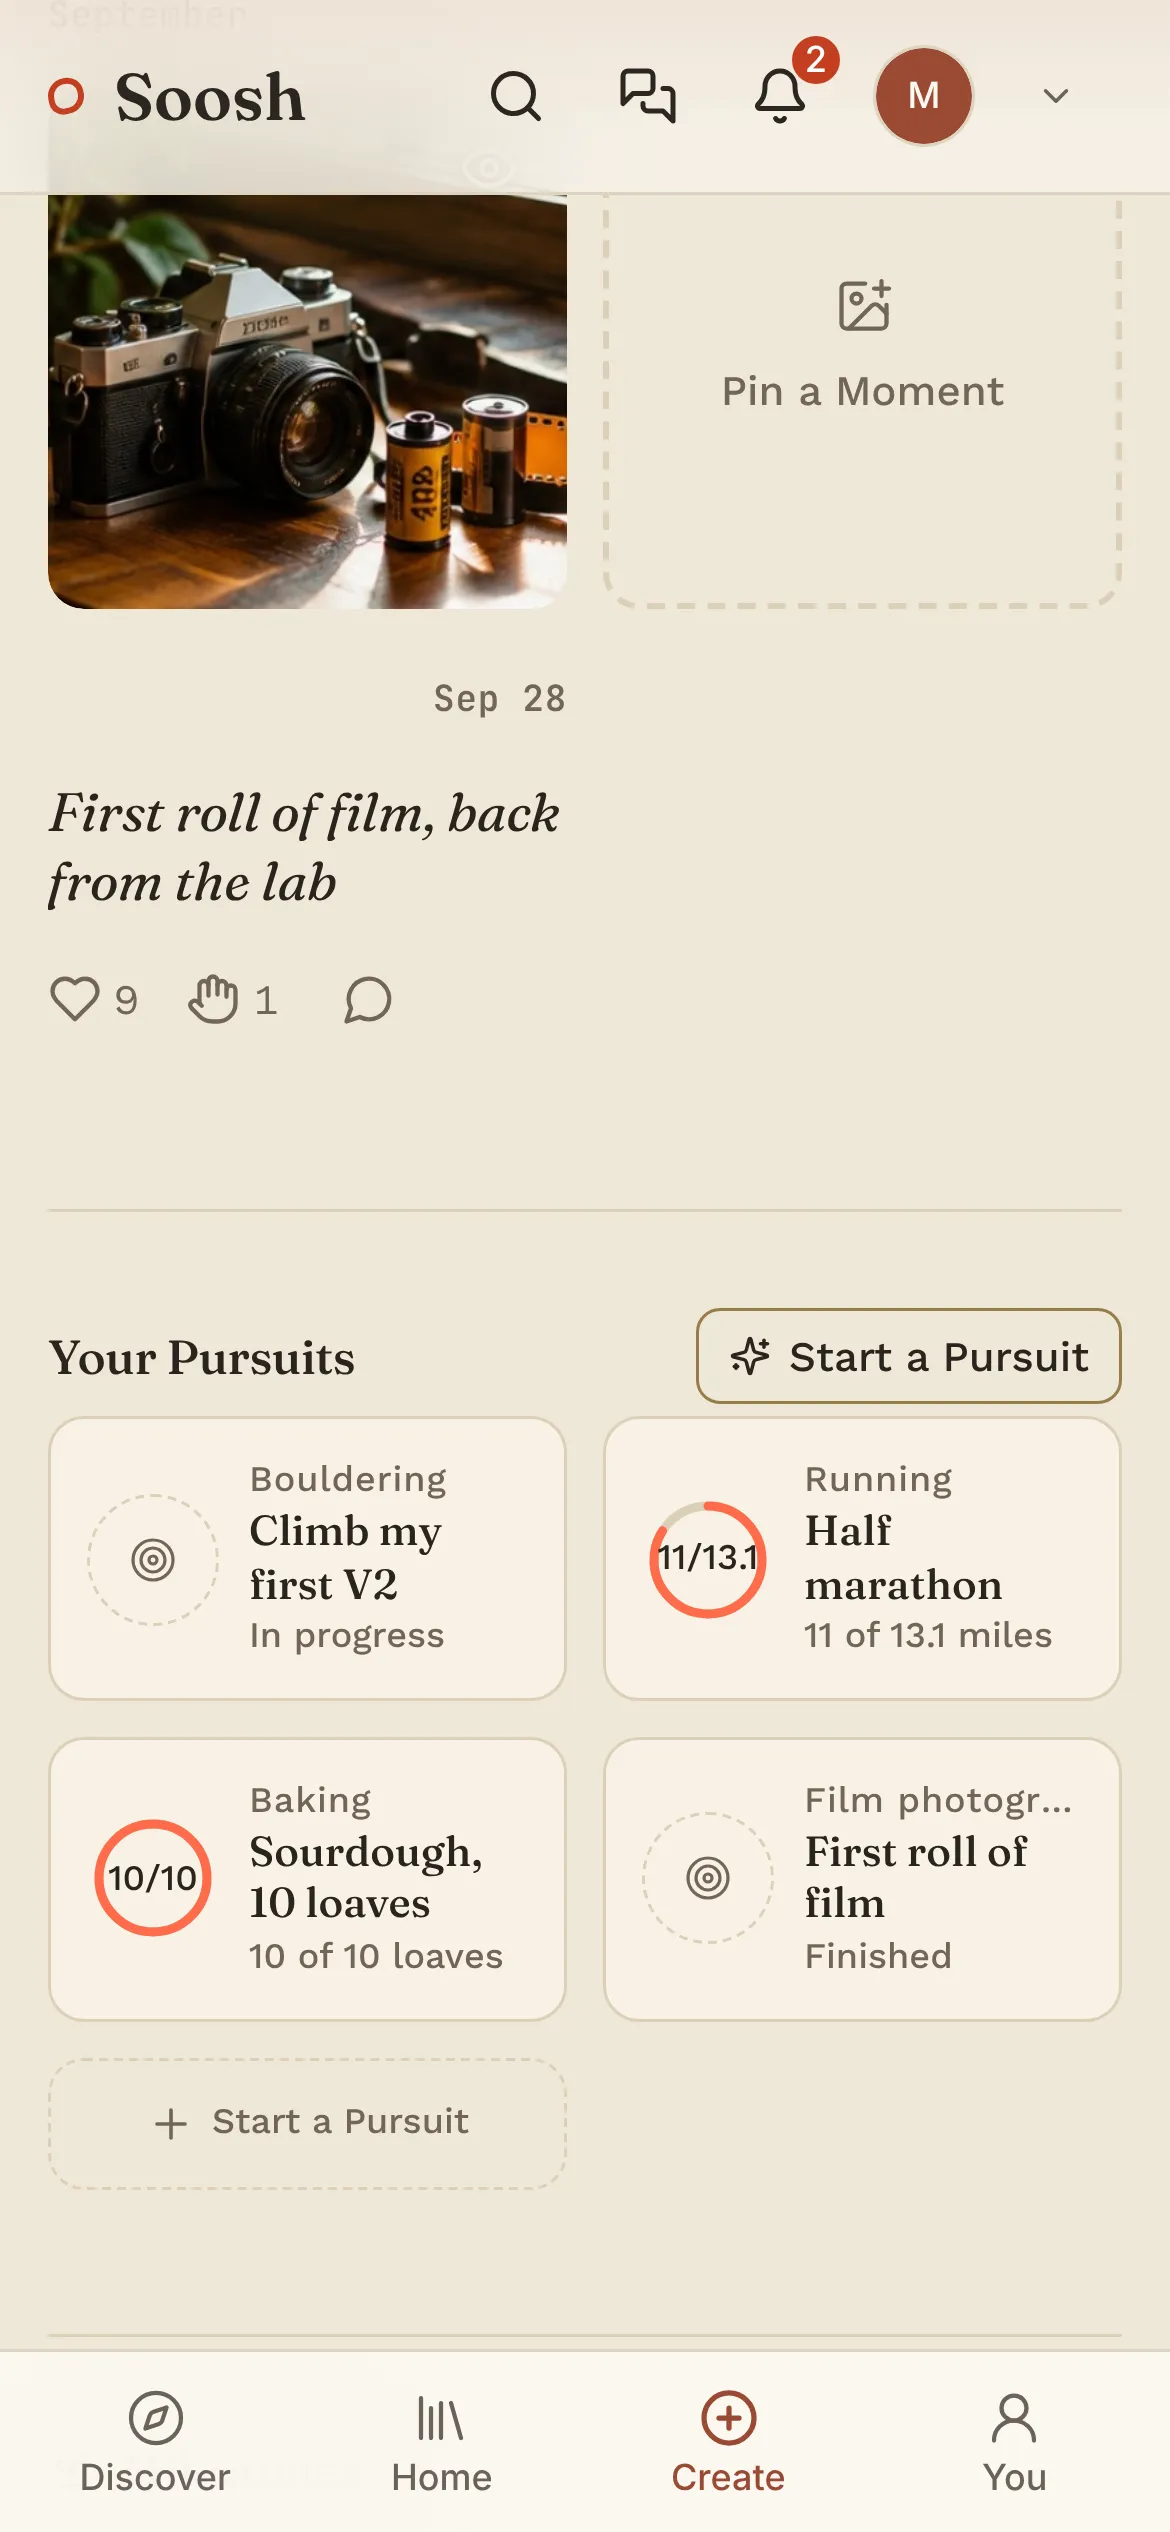
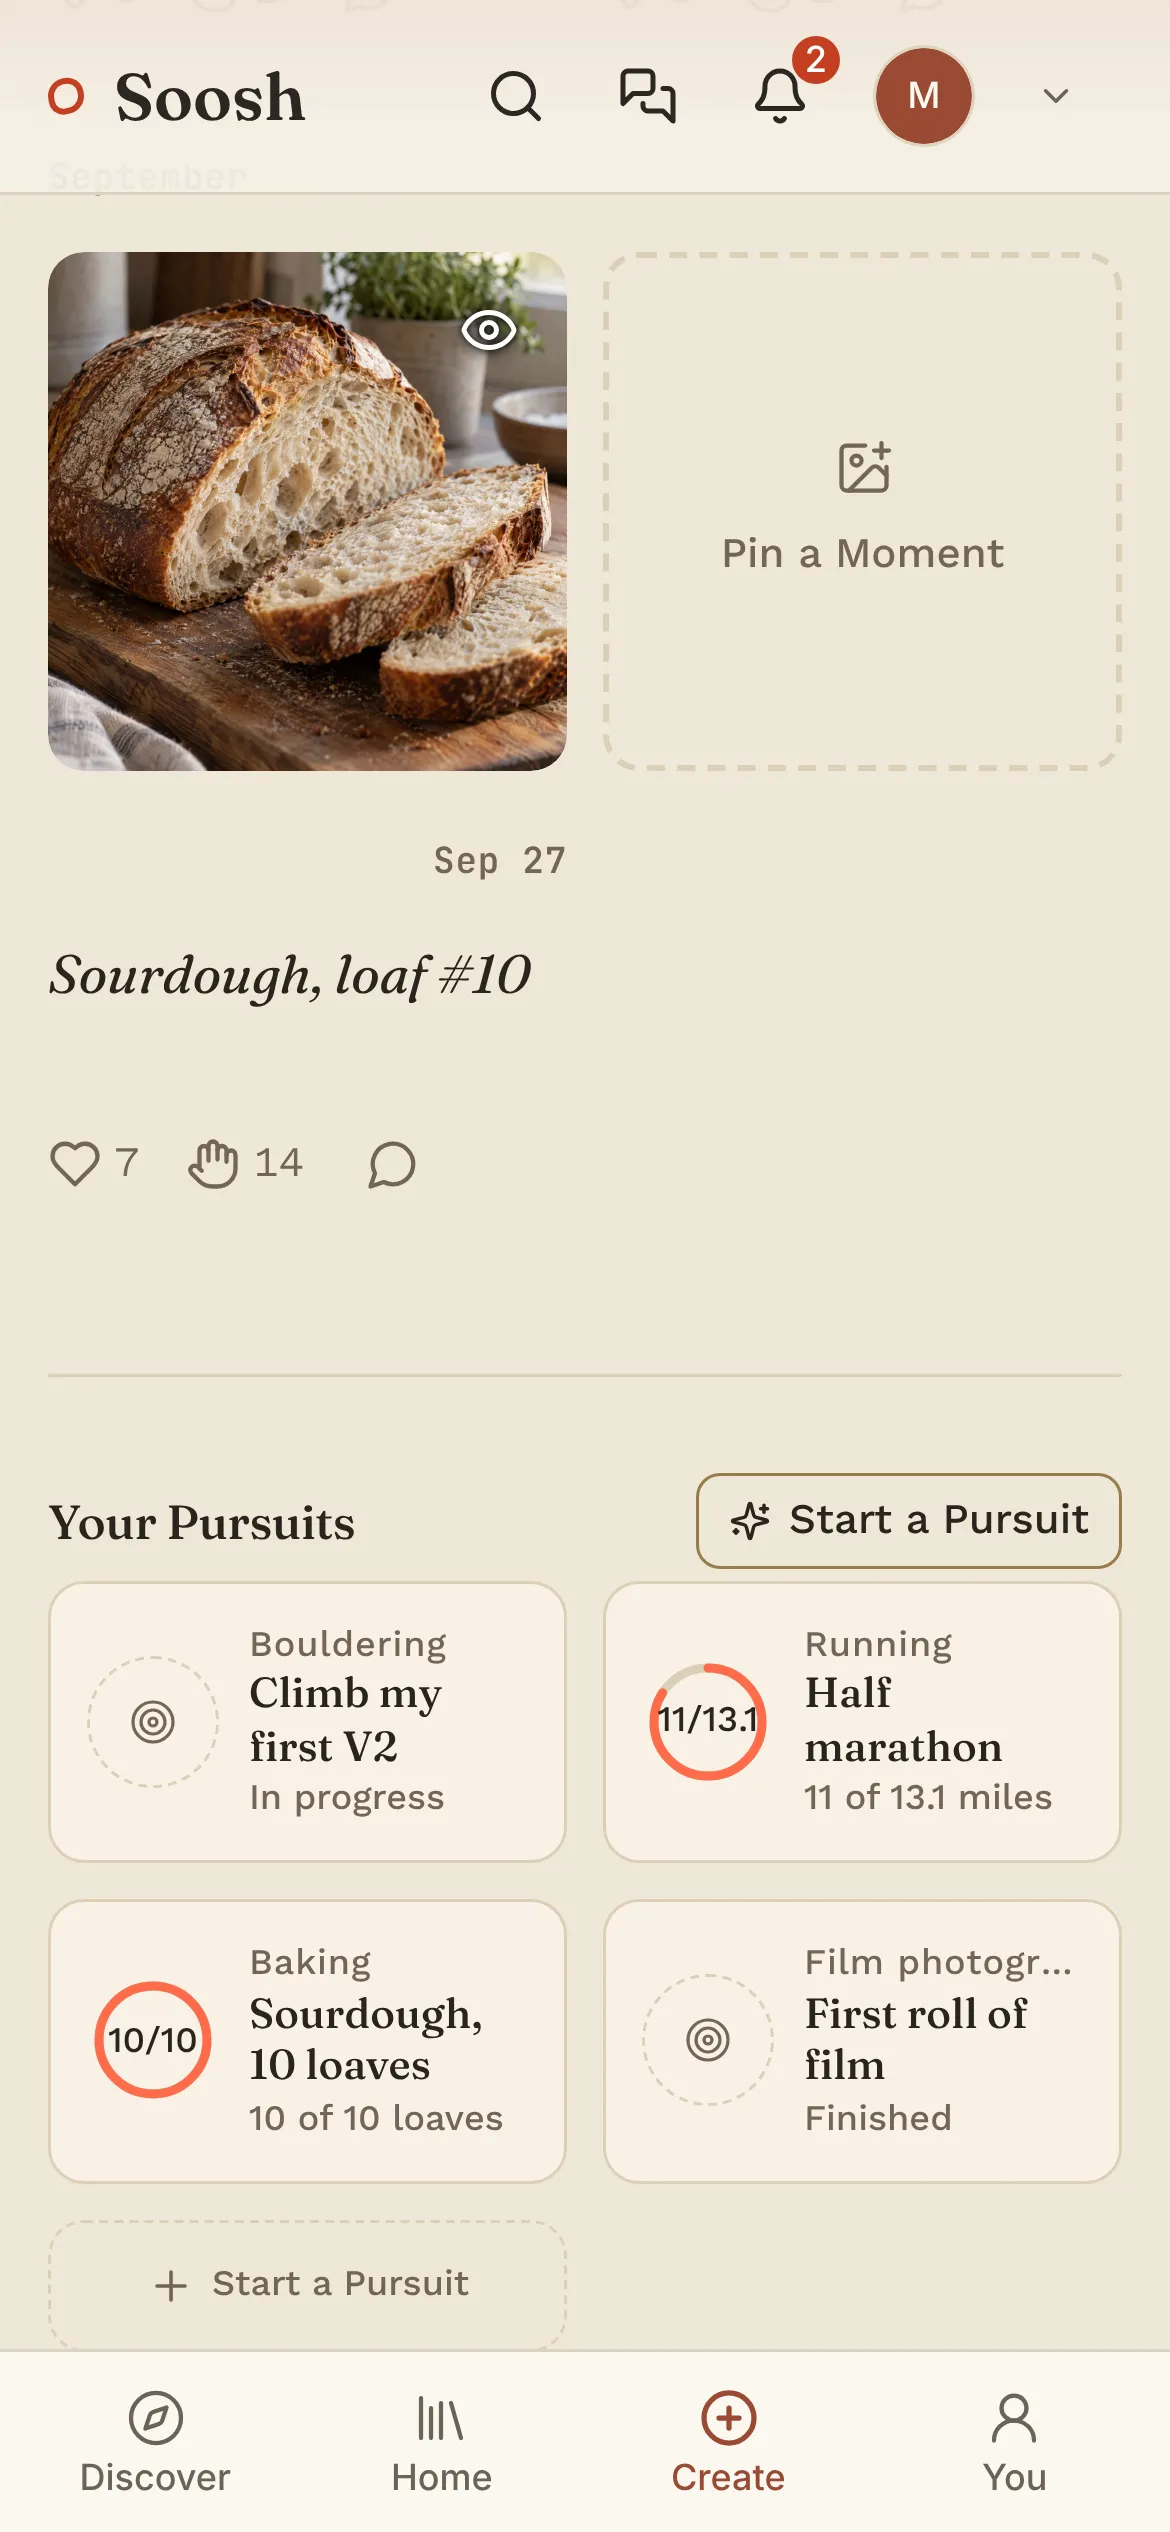
Landing screens: new sourdough photo, sourdough Moment leads the hero, film post removed, credits by tool
Claude-Session: https://claude.ai/code/session_01PqgTSnrfof1VxRF1nNL3km

diff --git a/src/landing-preview/fixtures.ts b/src/landing-preview/fixtures.ts
@@ -58,9 +58,8 @@ const post = (p: PostRow): PostRow => ({
 
 export const posts: PostRow[] = [
   // Maya
-  post({ id: 9001, user_id: MAYA, hobby_slug: "food-cooking", corner: "Baking", caption: "Sourdough, loaf #10", media_url: photo("maya-sourdough.jpg"), love_count: 7, in_count: 14, created_at: ago(9), pursuit_id: "p-sourdough" }),
+  post({ id: 9001, user_id: MAYA, hobby_slug: "food-cooking", corner: "Baking", caption: "Sourdough, loaf #10", media_url: photo("maya-sourdough.jpg"), love_count: 7, in_count: 14, created_at: ago(14), pursuit_id: "p-sourdough" }),
   post({ id: 9002, user_id: MAYA, hobby_slug: "sports-fitness", corner: "Running", caption: "Eleven miles along the river", media_url: photo("maya-running.jpg"), love_count: 5, in_count: 2, created_at: ago(3), pursuit_id: "p-halfmarathon" }),
-  post({ id: 9003, user_id: MAYA, hobby_slug: "photography-film", corner: "Film photography", caption: "First roll of film, back from the lab", media_url: photo("maya-film.jpg"), love_count: 9, in_count: 1, created_at: ago(12), pursuit_id: "p-film" }),
   post({ id: 9004, user_id: MAYA, hobby_slug: "sports-fitness", corner: "Bouldering", caption: "Day one on the V2 wall", media_url: photo("maya-bouldering.jpg"), love_count: 3, in_count: 1, created_at: ago(6), pursuit_id: "p-v2" }),
   // Nick
   post({ id: 9101, user_id: NICK, hobby_slug: "sports-fitness", corner: "Bouldering", caption: "First V3!", media_url: photo("nick-bouldering.jpg"), love_count: 12, in_count: 4, created_at: ago(1) }),
@@ -129,5 +128,5 @@ export const pursuits = [
 export const notifications = [
   { id: 1, user_id: MAYA, kind: "save", body: "14 people want to try “Sourdough, loaf #10”.", href: "/moment/9001", actor_name: null, actor_id: null, read: false, created_at: ago(0, 0.2), target_post_id: 9001 },
   { id: 2, user_id: MAYA, kind: "love", body: "Nick loved your moment.", href: "/moment/9002", actor_name: "Nick", actor_id: NICK, read: false, created_at: ago(0, 5), target_post_id: 9002 },
-  { id: 3, user_id: MAYA, kind: "thought", body: "Theo left a thought on your moment.", href: "/moment/9003", actor_name: "Theo", actor_id: THEO, read: true, created_at: ago(1, 3), target_post_id: 9003 },
+  { id: 3, user_id: MAYA, kind: "thought", body: "Theo left a thought on your moment.", href: "/moment/9002", actor_name: "Theo", actor_id: THEO, read: true, created_at: ago(1, 3), target_post_id: 9003 },
 ];

diff --git a/public/landing/README.md b/public/landing/README.md
@@ -31,22 +31,23 @@ as real members. The "See who's on Soosh" section stays real-only.
 
 The example screens use AI-generated images, by the owner's decision for these
 example screens only (the earlier "no AI images" rule does not apply here).
-The ten images arrived as one collage and were cropped to the file names
-listed in `landing-preview/README.md`. They are not committed; only the
-screens are. Source files are about 400 to 630 px wide, so photos look soft at
-full size. Replace them with real photos when available.
+They are not committed; only the screens are. Replace them with real photos
+when available.
 
 | Photo | Credit |
 |---|---|
-| `maya-sourdough` | AI-generated with Figma |
-| `maya-running` | AI-generated with Figma |
-| `maya-film` | AI-generated with Figma. **Replace:** the camera and film canister carry garbled lettering |
-| `maya-bouldering` | AI-generated with Figma |
-| `nick-bouldering` | AI-generated with Figma |
-| `nick-cutting-board` | AI-generated with Figma |
-| `nick-guitar` | AI-generated with Figma |
-| `theo-wheel` | AI-generated with Figma |
-| `theo-ramen` | AI-generated with Figma |
-| `theo-sketchbook` | AI-generated with Figma |
+| `maya-sourdough` | AI-generated with gpt-image-2.5-sunburst via ElevenLabs (1536 x 2048) |
+| `maya-running` | AI-generated, from a collage supplied by the owner (tool not recorded) |
+| `maya-bouldering` | AI-generated, from the same collage |
+| `nick-bouldering` | AI-generated, from the same collage |
+| `nick-cutting-board` | AI-generated, from the same collage |
+| `nick-guitar` | AI-generated, from the same collage |
+| `theo-wheel` | AI-generated, from the same collage |
+| `theo-ramen` | AI-generated, from the same collage |
+| `theo-sketchbook` | AI-generated, from the same collage |
+
+The collage images were cropped to about 400 to 630 px wide, so they look soft
+at full size. A film-photography post was removed from the example data
+because its image had garbled lettering; it is not shown on any screen.
 
 Screens that differ in size from 1170 x 2532 will be scaled to fit the frame.

diff --git a/landing-preview/README.md b/landing-preview/README.md
@@ -15,7 +15,7 @@ available. Record the credit of each in `public/landing/README.md`.
 |---|---|
 | `maya-sourdough.jpg` | A freshly baked sourdough loaf, scored crust |
 | `maya-running.jpg` | A riverside running path, no runner's face |
-| `maya-film.jpg` | A 35mm film camera, or developed film strips |
+| `maya-film.jpg` | Not used (post removed from the example data) |
 | `maya-bouldering.jpg` | A beginner bouldering wall with colored holds |
 | `nick-bouldering.jpg` | A climber on a bouldering problem, seen from behind or far away |
 | `nick-cutting-board.jpg` | A walnut cutting board |
